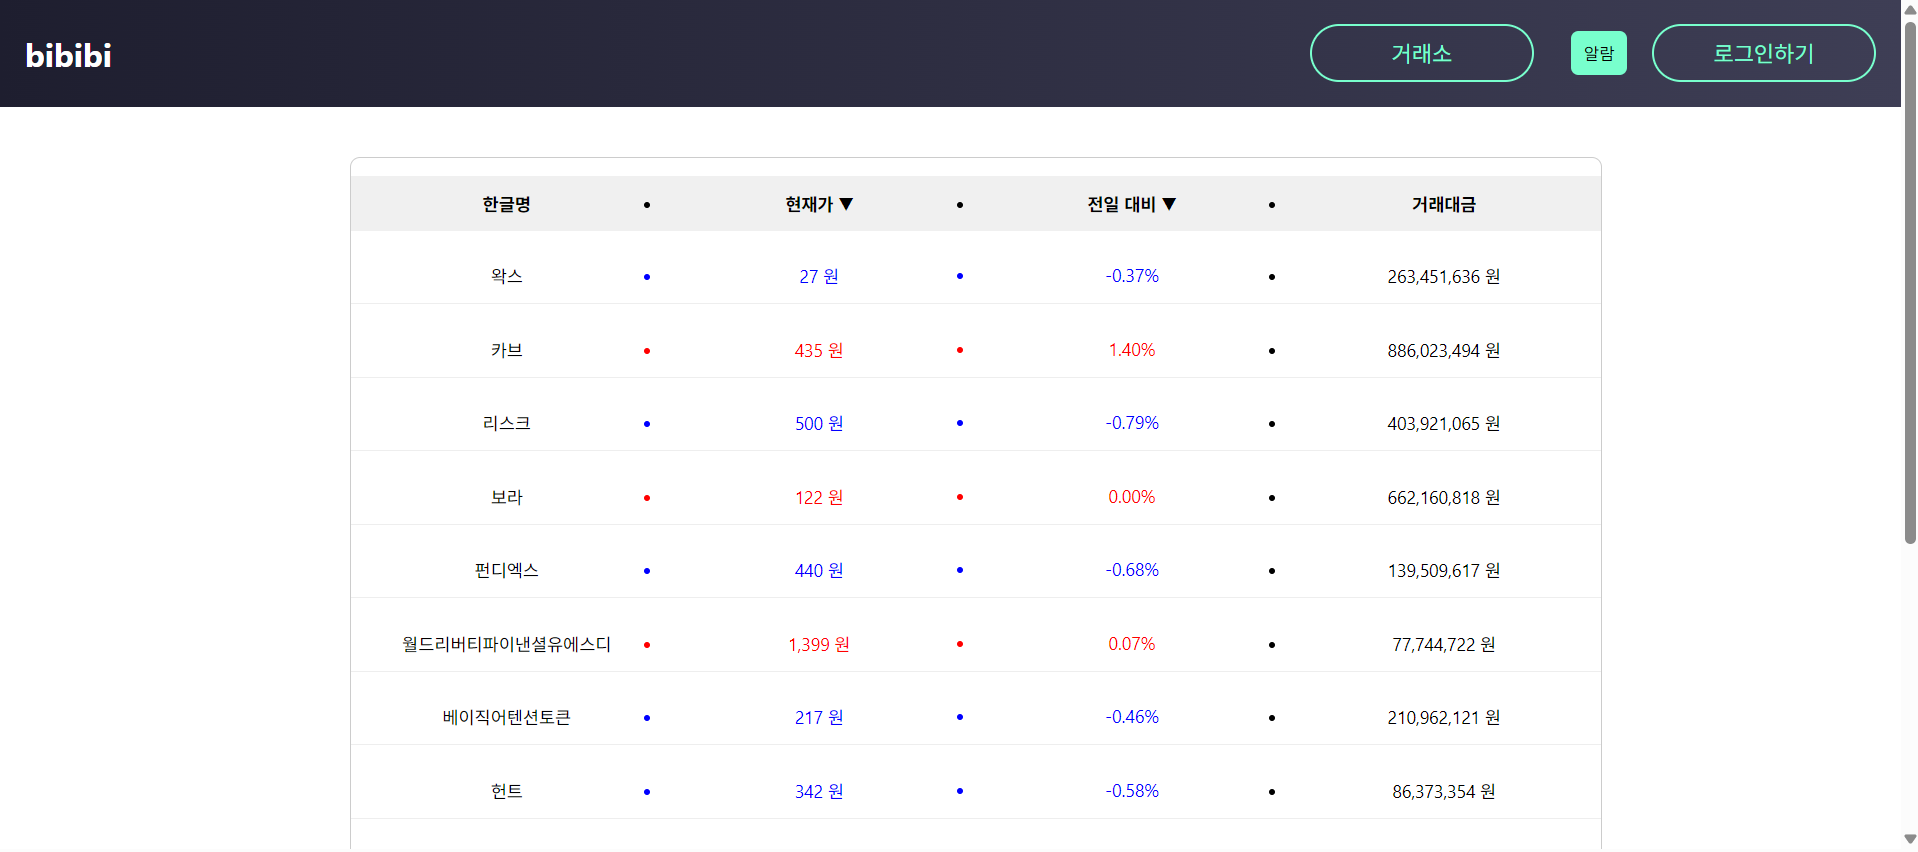
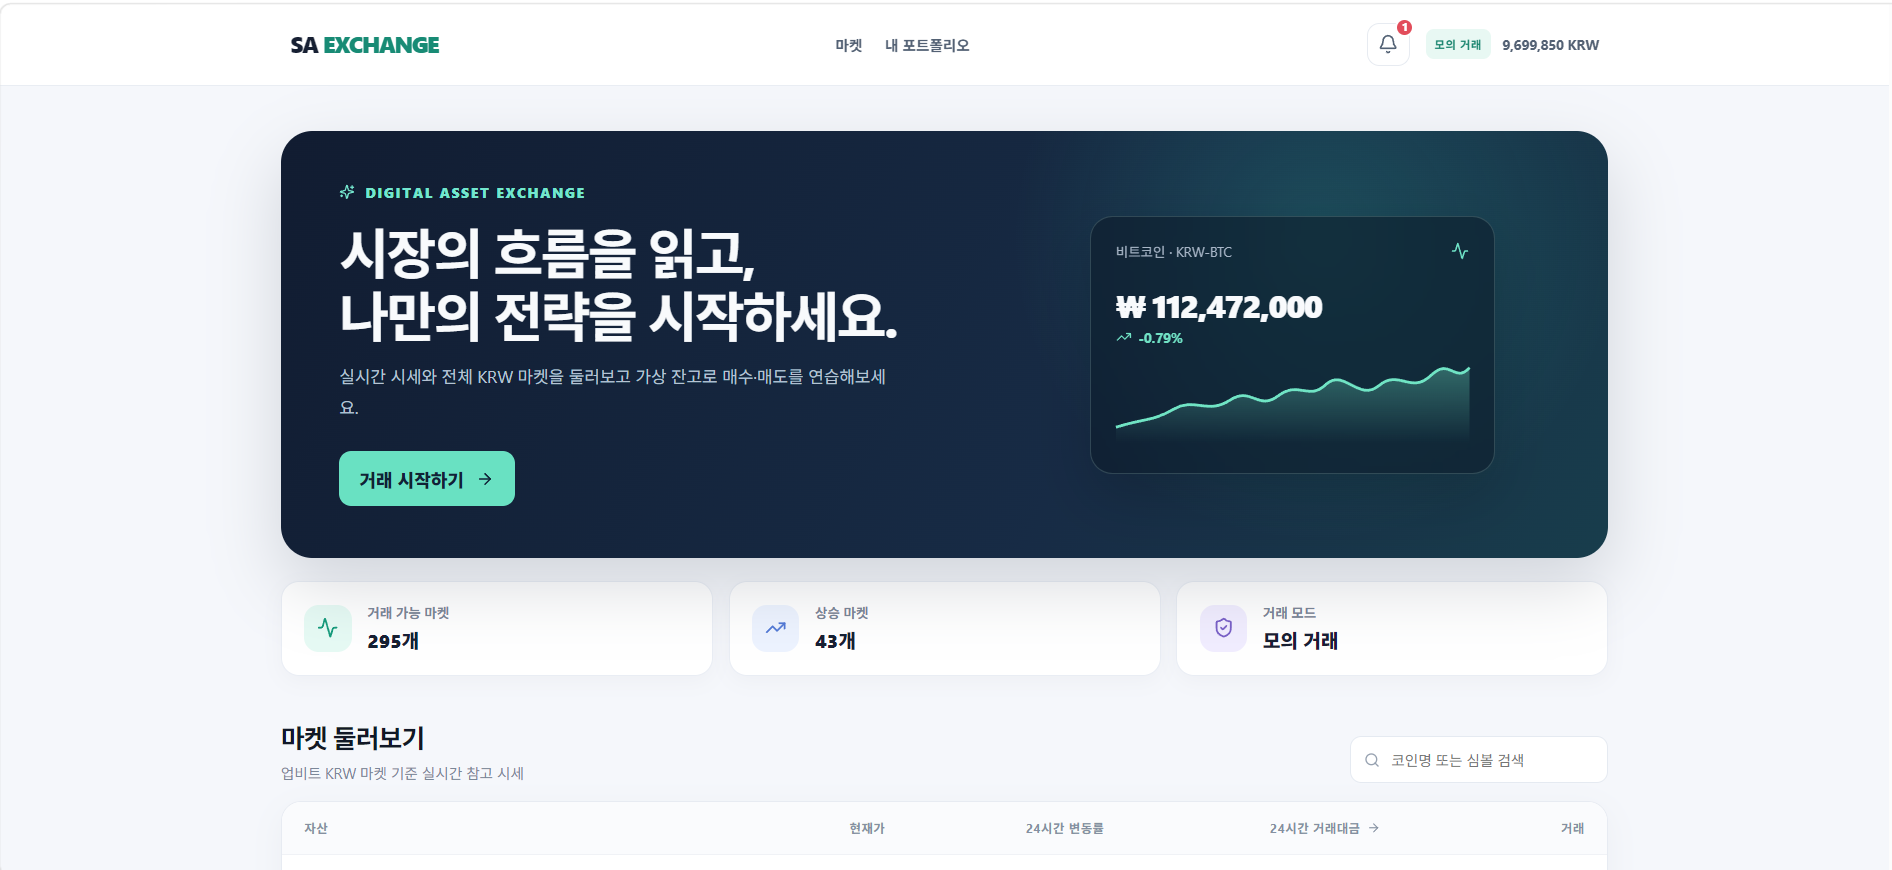
SA거래소 수정

diff --git a/index.html b/index.html
@@ -533,7 +533,118 @@ a, a:hover, a:focus, a:visited {
         <button class="arrow next" aria-label="다음">&rarr;</button>
 
         <div class="slides">
-          <!-- Slide 1 : MPS -->
+          <!-- Slide 1 : SA 거래소 -->
+          <div class="slide">
+          <div class="proj-wrap">
+            <div class="laptop">
+              <div class="screen" tabindex="0" role="button" aria-label="SA 거래소 자세히 보기">
+                <img src="SA거래소.png" alt="블록체인 모의 거래소">
+                <div class="screen-overlay">자세히 보기</div>
+              </div>
+            </div>
+            <div class="proj-meta">
+              <div class="date">2026.09.05 – 2026.09.20 (15일)</div>
+              <h3>SA 거래소</h3>
+              <p><span class="about-dot">About.</span> 업비트 API·실시간 차트 기반 모의 거래.</p>
+              <p><span class="about-dot">Detail.</span> 매수/매도, 자산 관리, 알림, 실시간 시세 구현.</p>
+              <div class="stack">
+                <span class="chip">React</span><span class="chip">Node.js</span><span class="chip">Solidity</span><span class="chip">Web3.js</span><span class="chip">PostgreSQL</span><span class="chip">Lightweight Charts</span><span class="chip">Socket.IO</span><span class="chip">AI Codex</span>
+              </div>
+
+              <template class="more-tpl">
+              
+                <div class="modal-grid two-cols">
+                  <!-- Left: 이미지 + 소개만 -->
+                  <div class="modal-col-left">
+                    <div class="modal-cover">
+                      <img src="SA거래소.png" alt="블록체인 모의 거래소 시연">
+                    </div>
+              
+                    <div class="modal-intro">
+                      <h4>소개</h4>
+                      <p>
+                        주식 모의투자를 웹에서 체험할 수 있도록 실시간 시세, 체결(매수), 보유
+                        자산, 알림을 구현한 모의 거래소입니다. 블록체인 환경을 접목해
+                        실제 토큰 발행·교환 흐름을 경험할 수 있도록 설계했습니다.
+                      </p>
+                    </div>
+                  </div>
+              
+                  <!-- Right: 개요 · 역할 · 문제/해결 · 현재상태/계획 · 배운점 -->
+<!-- Right: 백엔드(위) · 프론트엔드(아래) · 문제/해결 · 현재상태/계획 · 배운점 -->
+<div class="modal-text">
+  <h4>프로젝트 개요</h4>
+  <ul class="kv">
+    <li><b>기간</b> : 2026.09.05 ~ 2026.09.20 / <b>인원</b> : 1명</li>
+    <li><b>목적</b> : 실시간 시세 반영·체결(매수/매도)·자산 관리 UX 구현 + 토큰 발행/교환 체험</li>
+  </ul>
+
+  <section class="block backend">
+    <h4>백엔드</h4>
+    <ul>
+      <li><b>스택</b> : Node.js · MySQL · Express · Hardhat · Solidity</li>
+      <li><b>시세 프록시</b> : 업비트 <b>WebSocket</b> 수신 → 서버에서 정제/스로틀 → 클라 전달</li>
+      <li><b>거래 모델</b> : <b>orders / fills / balances</b> 스키마로 체결·잔액 <b>원자성</b> 보장 설계</li>
+      <li><b>토큰</b> : <b>KRW / BTC</b> ERC20 발행, 1:1 환산 규칙으로 장부 일관성 유지</li>
+      <li><b>보안/운영</b> : 환경변수 분리, 에러/체결 로그, 배포 시 롤백 전략 마련</li>
+    </ul>
+  </section>
+
+  <section class="block frontend">
+    <h4>프론트엔드</h4>
+    <ul>
+      <li><b>스택</b> : React · Chart 라이브러리 · CSS</li>
+      <li><b>실시간 차트</b> : WebSocket 스트림을 <b>버퍼링 + 간격 샘플링</b> 후 최소 렌더</li>
+      <li><b>체결 UX</b> : 매수/매도 폼, <b>보유 코인/잔액</b> 실시간 반영, 체결 알림</li>
+      <li><b>AI 코덱스 활용</b> : 기능 구현과 오류 분석 과정에서 코드 작성·개선을 보조</li>
+      <li><b>인증</b> : <b>카카오 로그인</b> 기반 접근 제어, 보호 라우트/버튼 노출 제어</li>
+      <li><b>에러/로딩</b> : 스켈레톤/토스트/재시도 버튼로 사용자 피드백 강화</li>
+    </ul>
+  </section>
+
+  <section class="block issues">
+    <h4>문제 & 해결</h4>
+    <ul class="split">
+      <li>
+        <div class="tag">프론트</div>
+        <b>실시간 차트 프레임 드랍</b> → <b>버퍼링·샘플링</b> + 가상화 영역만 업데이트로 FPS 안정
+      </li>
+      <li>
+        <div class="tag">백엔드</div>
+        <b>체결/잔액 불일치 위험</b> → DB 트랜잭션으로 <b>orders·fills·balances</b> 동시 커밋/롤백
+      </li>
+      <li>
+        <div class="tag">운영</div>
+        <b>외부 API 단절</b> → 서버 <b>프록시</b>로 재시도/백오프 정책, 장애 시 폴백 메시지
+      </li>
+    </ul>
+  </section>
+
+  <section class="block now-next">
+    <h4>현재 상태 & 향후 계획</h4>
+    <ul>
+      <li><b>매수 기능 구현 완료</b> — 체결 성공 시 <b>잔액 감소·보유 코인 증가</b>가 반영되고 체결 내역과 알림을 제공</li>
+      <li><b>배포 예정</b> — 매도 안정화 후 모니터링/알림/대시보드 연동 → 성능지표(p95, 드랍율) 수집</li>
+    </ul>
+  </section>
+
+  <section class="block learnings">
+    <h4>배운 점</h4>
+    <ul>
+      <li>실시간 스트림 처리와 <b>렌더링 최적화 패턴</b> 정립</li>
+      <li>거래·잔액의 <b>일관성/원자성</b> 보장의 중요성</li>
+      <li>WebSocket ↔ UI <b>동기화</b> 전략 수립과 에러 복원력</li>
+    </ul>
+  </section>
+</div>
+
+              </template>
+              
+            </div>
+          </div>
+        </div>
+
+          <!-- Slide 2 : 감정 일기장 -->
           <div class="slide">
           <div class="proj-wrap">
             <div class="laptop">
@@ -650,116 +761,6 @@ a, a:hover, a:focus, a:visited {
         </div>
 
         <div class="slide">
-          <div class="proj-wrap">
-            <div class="laptop">
-              <div class="screen" tabindex="0" role="button" aria-label="SA 거래소 자세히 보기">
-                <img src="SA거래소.png" alt="블록체인 모의 거래소">
-                <div class="screen-overlay">자세히 보기</div>
-              </div>
-            </div>
-            <div class="proj-meta">
-              <div class="date">2025.07.04 – 2025.07.17 (13일)</div>
-              <h3>SA 거래소</h3>
-              <p><span class="about-dot">About.</span> 업비트 API·실시간 차트 기반 모의 거래.</p>
-              <p><span class="about-dot">Detail.</span> 매수/매도, 자산, 알림, 실시간 시세.</p>
-              <div class="stack">
-                <span class="chip">React</span><span class="chip">Node.js</span><span class="chip">Solidity</span><span class="chip">Web3.js</span><span class="chip">PostgreSQL</span><span class="chip">Lightweight Charts</span><span class="chip">Socket.IO</span>
-              </div>
-
-              <template class="more-tpl">
-              
-                <div class="modal-grid two-cols">
-                  <!-- Left: 이미지 + 소개만 -->
-                  <div class="modal-col-left">
-                    <div class="modal-cover">
-                      <img src="SA거래소.png" alt="블록체인 모의 거래소 시연">
-                    </div>
-              
-                    <div class="modal-intro">
-                      <h4>소개</h4>
-                      <p>
-                        주식 모의투자를 웹에서 체험할 수 있도록 실시간 시세, 체결(매수), 보유
-                        자산, 알림을 구현한 모의 거래소입니다. 블록체인 환경을 접목해
-                        실제 토큰 발행·교환 흐름을 경험할 수 있도록 설계했습니다.
-                      </p>
-                    </div>
-                  </div>
-              
-                  <!-- Right: 개요 · 역할 · 문제/해결 · 현재상태/계획 · 배운점 -->
-<!-- Right: 백엔드(위) · 프론트엔드(아래) · 문제/해결 · 현재상태/계획 · 배운점 -->
-<div class="modal-text">
-  <h4>프로젝트 개요</h4>
-  <ul class="kv">
-    <li><b>기간</b> : 2025.06.04 ~ 2025.07.17 / <b>인원</b> : 1명</li>
-    <li><b>목적</b> : 실시간 시세 반영·체결(매수/매도)·자산 관리 UX 구현 + 토큰 발행/교환 체험</li>
-  </ul>
-
-  <section class="block backend">
-    <h4>백엔드</h4>
-    <ul>
-      <li><b>스택</b> : Node.js · MySQL · Express · Hardhat · Solidity</li>
-      <li><b>시세 프록시</b> : 업비트 <b>WebSocket</b> 수신 → 서버에서 정제/스로틀 → 클라 전달</li>
-      <li><b>거래 모델</b> : <b>orders / fills / balances</b> 스키마로 체결·잔액 <b>원자성</b> 보장 설계</li>
-      <li><b>토큰</b> : <b>KRW / BTC</b> ERC20 발행, 1:1 환산 규칙으로 장부 일관성 유지</li>
-      <li><b>보안/운영</b> : 환경변수 분리, 에러/체결 로그, 배포 시 롤백 전략 마련</li>
-    </ul>
-  </section>
-
-  <section class="block frontend">
-    <h4>프론트엔드</h4>
-    <ul>
-      <li><b>스택</b> : React · Chart 라이브러리 · CSS</li>
-      <li><b>실시간 차트</b> : WebSocket 스트림을 <b>버퍼링 + 간격 샘플링</b> 후 최소 렌더</li>
-      <li><b>체결 UX</b> : 매수/매도 폼, <b>보유 코인/잔액</b> 실시간 반영, 체결 알림</li>
-      <li><b>인증</b> : <b>카카오 로그인</b> 기반 접근 제어, 보호 라우트/버튼 노출 제어</li>
-      <li><b>에러/로딩</b> : 스켈레톤/토스트/재시도 버튼로 사용자 피드백 강화</li>
-    </ul>
-  </section>
-
-  <section class="block issues">
-    <h4>문제 & 해결</h4>
-    <ul class="split">
-      <li>
-        <div class="tag">프론트</div>
-        <b>실시간 차트 프레임 드랍</b> → <b>버퍼링·샘플링</b> + 가상화 영역만 업데이트로 FPS 안정
-      </li>
-      <li>
-        <div class="tag">백엔드</div>
-        <b>체결/잔액 불일치 위험</b> → DB 트랜잭션으로 <b>orders·fills·balances</b> 동시 커밋/롤백
-      </li>
-      <li>
-        <div class="tag">운영</div>
-        <b>외부 API 단절</b> → 서버 <b>프록시</b>로 재시도/백오프 정책, 장애 시 폴백 메시지
-      </li>
-    </ul>
-  </section>
-
-  <section class="block now-next">
-    <h4>현재 상태 & 향후 계획</h4>
-    <ul>
-      <li><b>매수 완료, 매도 구현 중</b> — 체결 성공 시 <b>잔액 감소·보유 코인 증가</b>가 한 트랜잭션으로 처리되게 보완</li>
-      <li><b>배포 예정</b> — 매도 안정화 후 모니터링/알림/대시보드 연동 → 성능지표(p95, 드랍율) 수집</li>
-    </ul>
-  </section>
-
-  <section class="block learnings">
-    <h4>배운 점</h4>
-    <ul>
-      <li>실시간 스트림 처리와 <b>렌더링 최적화 패턴</b> 정립</li>
-      <li>거래·잔액의 <b>일관성/원자성</b> 보장의 중요성</li>
-      <li>WebSocket ↔ UI <b>동기화</b> 전략 수립과 에러 복원력</li>
-    </ul>
-  </section>
-</div>
-
-              </template>
-              
-            </div>
-          </div>
-        </div>
-
-          <!-- Slide 2 : 감정 일기장 -->
-          <div class="slide">
             <div class="proj-wrap">
               <div class="laptop">
                 <div class="screen" tabindex="0" role="button" aria-label="감정 일기장 자세히 보기">
